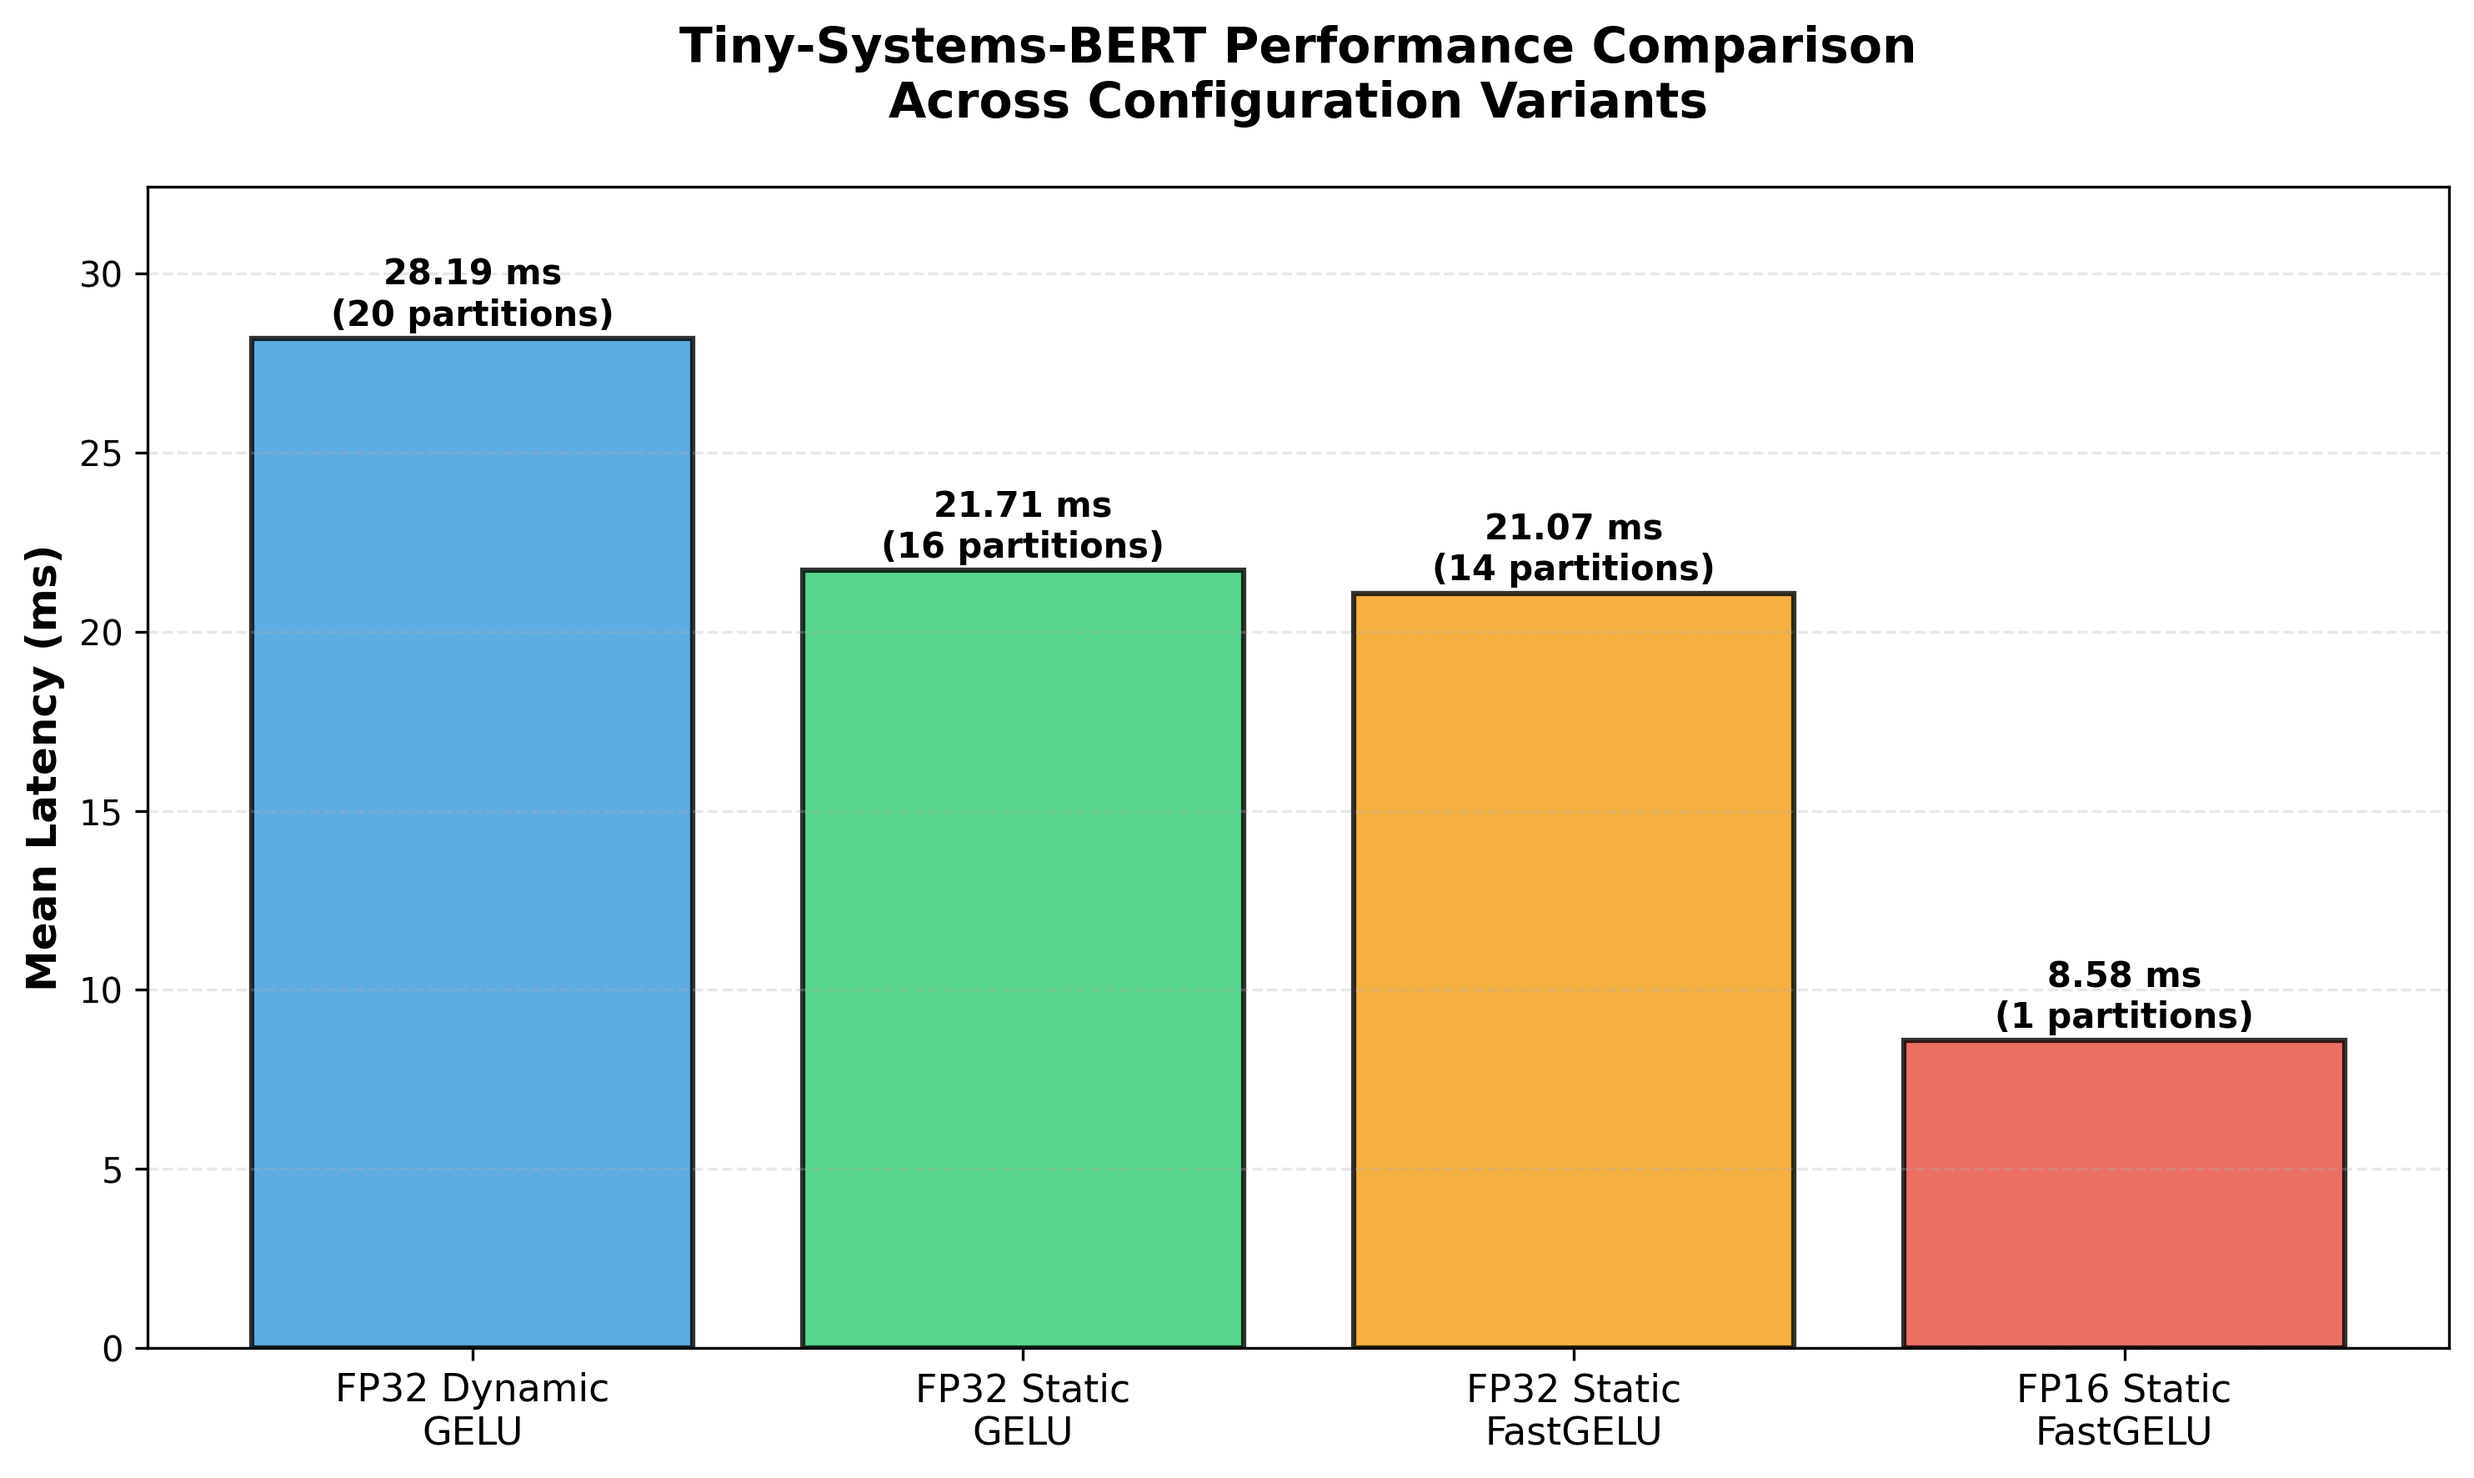
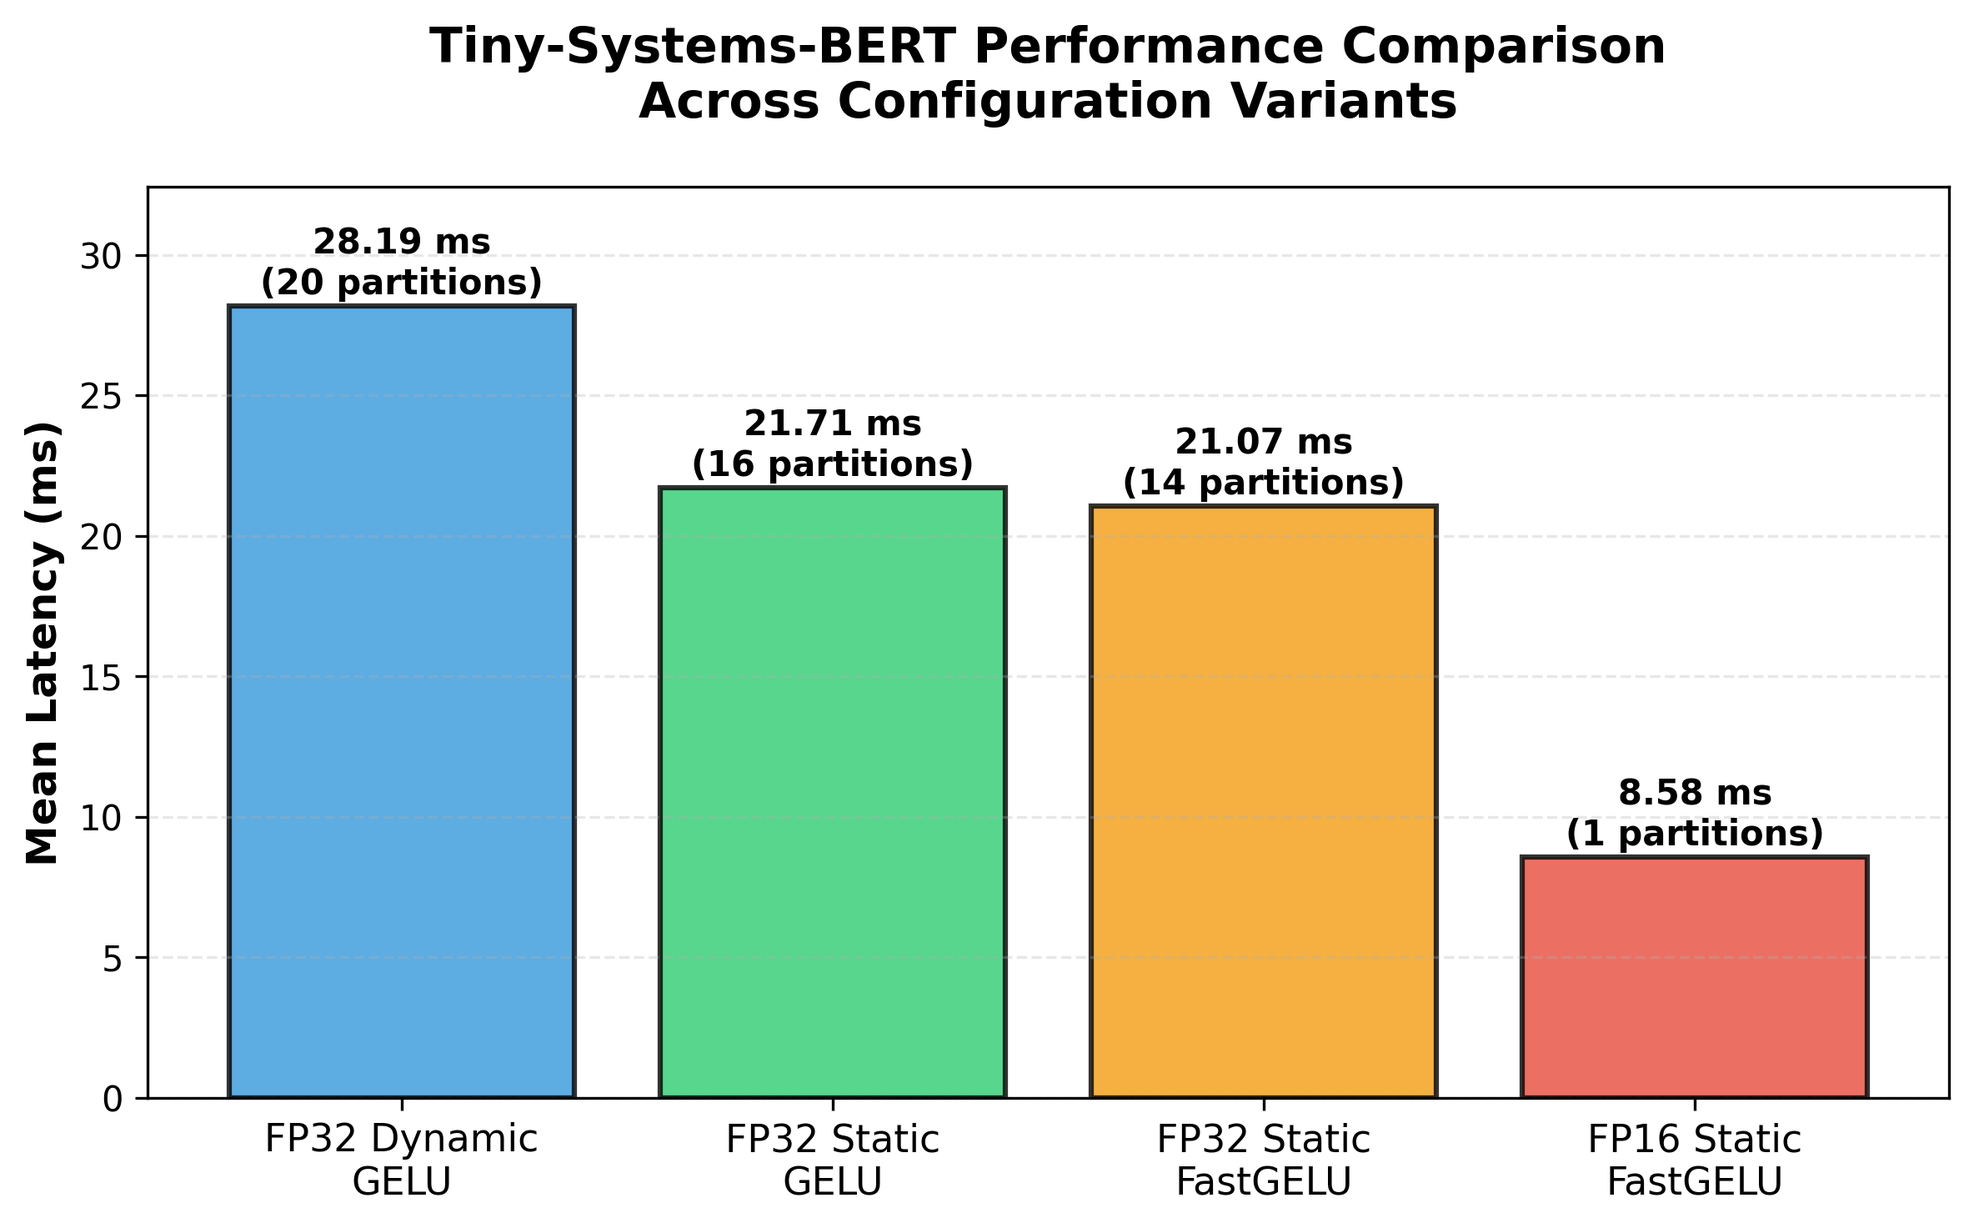
Reduce plot size and update visualizations

diff --git a/scripts/run_mobilenet_comparison.py b/scripts/run_mobilenet_comparison.py
@@ -200,7 +200,7 @@ def plot_comparison(results, output_path="results/plots/mobilenet_coreml_cpu_com
     bars3 = ax3.bar(range(len(configs)), coreml_usage, color=colors, alpha=0.8, 
                     edgecolor='black', linewidth=1.5)
     ax3.set_ylabel('CoreML Partition Usage (%)', fontsize=12, fontweight='bold')
-    ax3.set_title('CoreML Graph Partitioning\n(Higher is Better)', fontsize=13, fontweight='bold')
+    ax3.set_title('CoreML Graph Partitioning', fontsize=13, fontweight='bold')
     ax3.set_xticks(range(len(configs)))
     ax3.set_xticklabels(configs, fontsize=10)
     ax3.set_ylim(0, 110)

diff --git a/scripts/plot_profile_comparison.py b/scripts/plot_profile_comparison.py
@@ -89,7 +89,7 @@ def main():
         return
     
     # Create the bar graph
-    fig, ax = plt.subplots(figsize=(10, 6))
+    fig, ax = plt.subplots(figsize=(8, 5))
     
     colors = ['#3498db', '#2ecc71', '#f39c12', '#e74c3c']
     bars = ax.bar(range(len(data)), data, color=colors[:len(data)], alpha=0.8, 

diff --git a/README.md b/README.md
@@ -81,7 +81,7 @@ Initial profiling reveals:
 - frequent CPU↔CoreML transitions  
 - significant dispatch overhead  
 
-One hypothesis is that model scale or embedding footprint contributes to fragmentation; however, because CoreML internals are proprietary, we test this empirically by reducing model depth and hidden size.”
+One hypothesis is that model scale or embedding footprint may contributes to fragmentation; however, because CoreML internals are proprietary, we test this empirically by reducing model depth and hidden size.
 
 Much of the CoreML architecture and specs are propriatary and not made publicly available. We can only obtain system insights by stress testing CoreML.
 
@@ -140,7 +140,7 @@ In contrast:
 - CoreML EP internally lowers precision as needed  
 - Full accelerator offload becomes possible  
 
-The reduced latency we observed in figure 4.1 above is not caused by increased efficiency from FP16, it is caused by all events fallback to CPU except fast-relu operations. When we plot CPU vs CoreML in this configuration (static batching, fast-relu, and FP16 precision), we now observe much overlap in performance.
+The reduced latency observed in this configuration is not due to improved CoreML partitioning under FP16, but rather because most operators fall back to CPU execution. When plotting CPU vs CoreML in this configuration (static batching, fast-relu, and FP16 precision), we observe much overlap in performance.
 
 ![FP16 CPU vs CoreML](results/plots/batch_scaling_cpu_vs_coreml.png)
 
@@ -228,8 +228,6 @@ The central insight is that **frontend compatibility and graph structure govern 
 Detailed per-kernel traces, executor breakdowns, and exact timing measurements
 supporting Sections 4.2–4.4 are provided below for reproducibility.
 
-### Appendix A — tiny-systems-bert FP32 dynamic (baseline)
-
 Profiling reference run: `results/txt/tiny-systems-bert_fp32_dynamic_gelu_profile_summary.txt`
 
 ### Appendix A — tiny-systems-bert FP32 dynamic (baseline)
@@ -273,3 +271,19 @@ Profiling reference run: `results/txt/tiny-systems-bert_fp32_static_b1_s128_fast
 Appendix C supports §4.4 by showing how FastGELU eliminates `Erf` bottlenecks, enabling longer CoreML segments even though the partition count drops.
 
 [Full profile summary](results/txt/tiny-systems-bert_fp32_static_b1_s128_fast-gelu_profile_summary.txt)
+
+---
+
+### Appendix D — tiny-systems-bert FP16 static + FastGELU
+
+Profiling reference run: `results/txt/tiny-systems-bert_fp16_static_b1_s128_fast-gelu_profile_summary.txt`
+
+- Total duration: 0.90 s  
+- CoreML partitions: 14  
+- Nodes: 133 (CoreML: 110)  
+- Executor time: 287 ms  
+- All heavy ops run on CoreML; CPU work limited to lightweight control ops
+
+This run highlights §4.5: The FP16 export executes almost entirely on CPU with minimal CPU/CoreML tansitions.
+
+[Full profile summary](results/txt/tiny-systems-bert_fp16_static_b1_s128_fast-gelu_profile_summary.txt)
